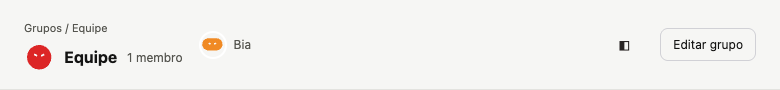
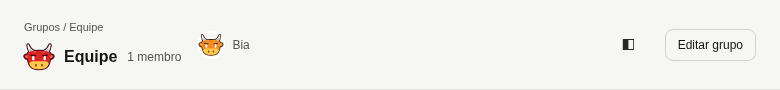
fix(ui): polish Work mode navigation and contrast

diff --git a/ui/test/e2e/work-mode.spec.ts b/ui/test/e2e/work-mode.spec.ts
@@ -1,16 +1,18 @@
 import { mkdirSync } from "node:fs"
 import { resolve } from "node:path"
+import AxeBuilder from "@axe-core/playwright"
 import { expect, test } from "@playwright/test"
 
 const evidence = resolve(import.meta.dirname, "../../test-results/work-mode")
+test.setTimeout(90_000)
 
 test("switches and remembers Work mode, with channels and routine history", async ({ page }) => {
   mkdirSync(evidence, { recursive: true })
   await page.setViewportSize({ width: 1512, height: 982 })
   await page.emulateMedia({ reducedMotion: "reduce", colorScheme: "dark" })
   await page.addInitScript(() => {
-    localStorage.setItem("touri.appearance.v1", "dark")
-    localStorage.setItem("touri.sidebar.mode", "work")
+    if (localStorage.getItem("touri.appearance.v1") === null) localStorage.setItem("touri.appearance.v1", "dark")
+    if (localStorage.getItem("touri.sidebar.mode") === null) localStorage.setItem("touri.sidebar.mode", "work")
   })
   await page.goto("/test/e2e/work-mode-harness.html")
   await expect(page.getByRole("textbox", { name: "Mensagem para mark" })).toBeVisible()
@@ -38,7 +40,6 @@ test("switches and remembers Work mode, with channels and routine history", asyn
 
   await botsTab.click()
   await page.reload()
-  await expect(page.getByRole("textbox", { name: "Mensagem para mark" })).toBeVisible()
   await expect(page.getByRole("tab", { name: /^Bots,/ })).toHaveAttribute("aria-selected", "true")
   await expect(page.getByRole("region", { name: "Canais" })).toHaveCount(0)
   await page.getByRole("tab", { name: /^Work,/ }).click()
@@ -59,12 +60,22 @@ test("switches and remembers Work mode, with channels and routine history", asyn
           { appearance: theme, sidebarMode: mode },
         )
         await page.reload()
-        await expect(page.getByRole("textbox", { name: "Mensagem para mark" })).toBeVisible()
         if (viewport.name === "phone") await page.locator(".mobile-menu-button").click()
         await expect(page.getByRole("region", { name: "Canais" })).toHaveCount(mode === "work" ? 1 : 0)
-        await page.screenshot({
+        if (mode === "bots") {
+          const contrast = await new AxeBuilder({ page })
+            .include(".sidebar-mode-tabs")
+            .withRules(["color-contrast"])
+            .analyze()
+          expect(contrast.violations).toEqual([])
+        }
+        await page.locator('[data-bot-entry="bot-mark"] .bot-row-main').click()
+        await expect(page.getByRole("textbox", { name: "Mensagem para mark" })).toBeVisible()
+        if (viewport.name === "phone") await page.locator(".mobile-menu-button").click()
+        const sidebar = page.locator(".bot-sidebar")
+        await expect(sidebar).toBeVisible()
+        await sidebar.screenshot({
           path: resolve(evidence, `${mode === "bots" ? "before" : "after"}-${viewport.name}-${theme}.png`),
-          fullPage: true,
           animations: "disabled",
         })
       }

diff --git a/ui/test/e2e/groups.spec.ts b/ui/test/e2e/groups.spec.ts
@@ -6,6 +6,7 @@ import { showBotPanel } from "./home-navigation"
 
 const evidence = resolve(import.meta.dirname, "../../../docs/qa/groups")
 mkdirSync(evidence, { recursive: true })
+test.setTimeout(60_000)
 for (const theme of ["light", "dark"] as const)
   test(`Grupos workflow and screenshots ${theme}`, async ({ page }) => {
     await page.setViewportSize({ width: 1512, height: 982 })
@@ -101,6 +102,6 @@ for (const theme of ["light", "dark"] as const)
     await expect(page.getByRole("textbox", { name: "Mensagem para Produto e Operação" })).toBeVisible()
     await page.getByRole("button", { name: "+ Nova conversa", exact: true }).click()
     await expect(
-      page.getByRole("region", { name: "Canais" }).getByRole("button", { name: "Nova conversa", exact: true }),
+      page.getByRole("region", { name: "Canais" }).getByRole("button", { name: "+ Nova conversa", exact: true }),
     ).toBeVisible()
   })

diff --git a/ui/src/components/BotSidebar.tsx b/ui/src/components/BotSidebar.tsx
@@ -154,7 +154,8 @@ export const Sidebar = (props: SidebarProps) => {
   // Switching bots inside Preview keeps that view; global pages return to the bot conversation.
   const select = (id: Id): void => {
     props.onNavigate?.()
-    if (id !== props.selectedBotId) props.onSelect(id)
+    const selectedThreadIsGroup = props.threads.some((thread) => thread.id === props.selectedThreadId && thread.groupId)
+    if (id !== props.selectedBotId || selectedThreadIsGroup) props.onSelect(id)
     if (props.section !== "bots") props.onChat()
   }
   const selectThread = (id: Id): void => {

diff --git a/ui/src/components/bot-sidebar.css b/ui/src/components/bot-sidebar.css
@@ -45,7 +45,7 @@
   padding: var(--space-4);
   border: 1px solid var(--border-subtle);
   border-radius: var(--radius-12);
-  background: var(--surface-backdrop);
+  background: var(--surface-control);
 }
 .sidebar-mode-tabs [role="tab"] {
   display: inline-flex;
@@ -63,7 +63,7 @@
   font-weight: var(--weight-medium);
 }
 .sidebar-mode-tabs [role="tab"][aria-selected="true"] {
-  background: var(--surface-selected);
+  background: var(--surface-panel);
   color: var(--text-primary);
   font-weight: var(--weight-semibold);
 }
